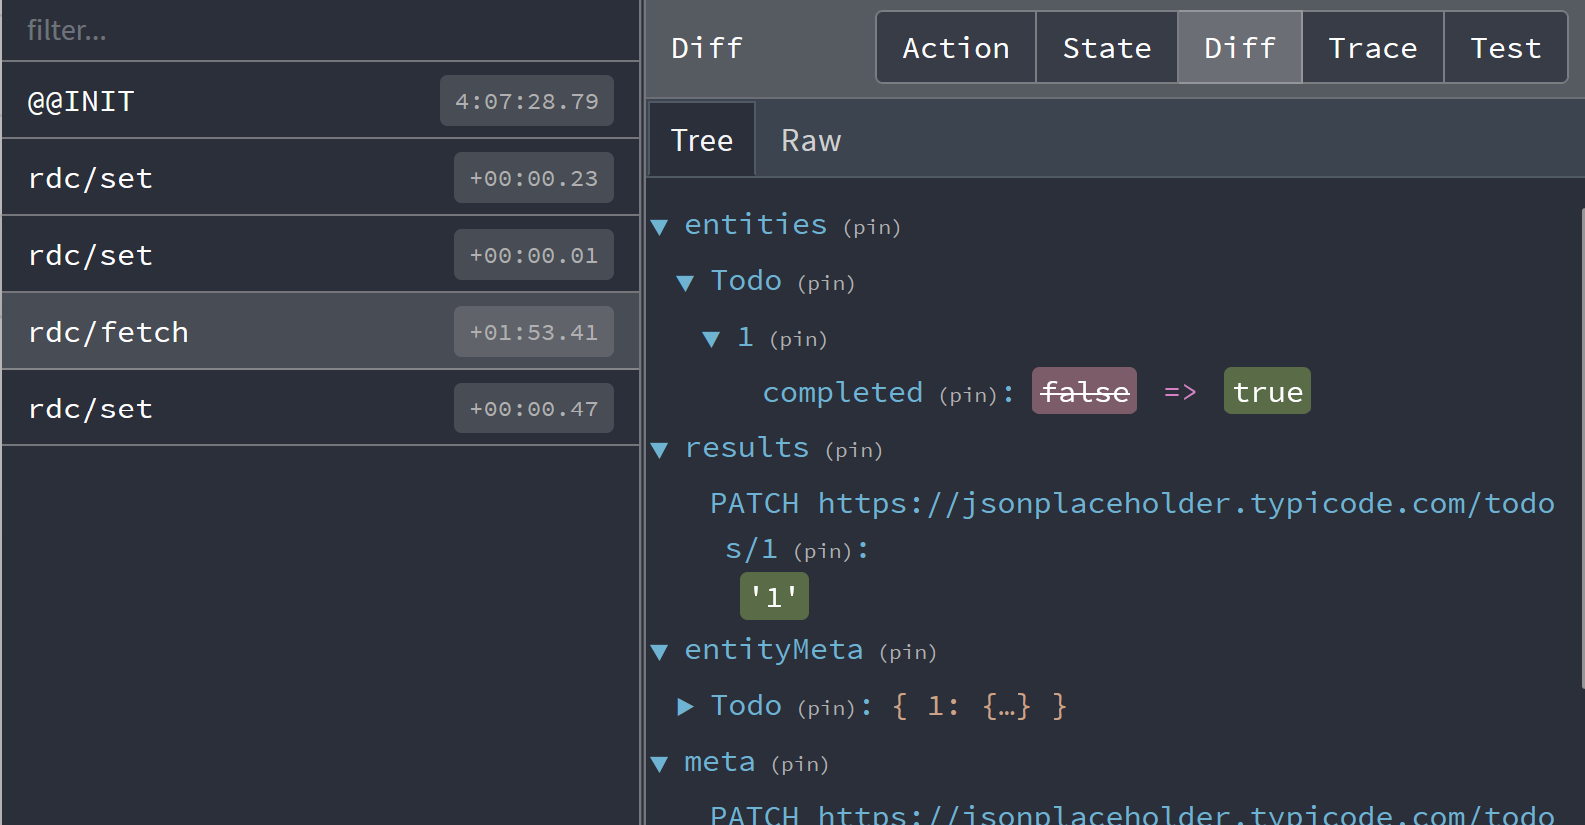
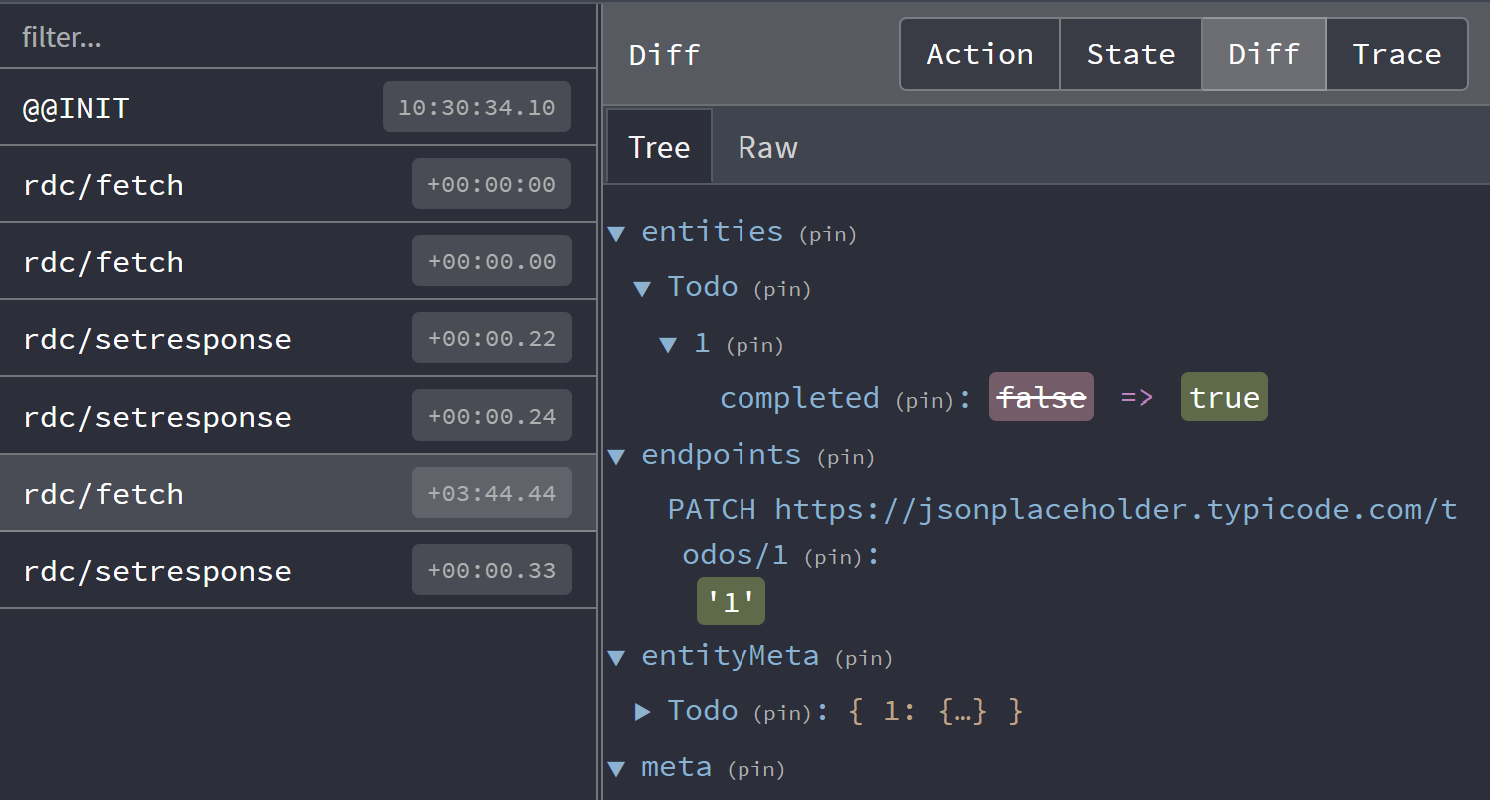
docs: Update debugging guide; move to getting-started

diff --git a/docs/core/guides/debugging.md b/docs/core/guides/debugging.md
@@ -32,107 +32,43 @@ in dev mode. If you have custom managers, you'll need to ensure DevToolsManager 
 
 ## Open dev tools
 
-<span style={{float:'right',marginLeft:'10px'}}>
-![redux-devtools button](/img/redux-devtools.png)
+<span style={{float:'right',marginLeft:'10px',width:'190px'}}>
+![redux-devtools browser button](/img/devtools-browser-button.png)
 </span>
 
 After installing and running your site, a new icon should appear in your location bar
 
 Clicking that will open the inspector, which allows you to observe dispatched actions,
-their effect on the cache state as well as current cache state.
+their effect on the store's state as well as current store state.
 
 ![browser-devtools](/img/devtool-action.png 'Reactive Data Client devtools')
 
 The [Controller](../api/Controller.md) dispatches actions, making that page useful for understanding
-what actions you see. Here we observe the most common actions of [fetch](../api/Controller.md#fetch)
-and [set](../api/Controller.md#setResponse).
+what actions you see. Here we observe common actions of [fetch](../api/Controller.md#fetch)
+and [setResponse](../api/Controller.md#setResponse).
 
 :::note
 
-By default the devtool integration will filter [fetch](../api/Controller.md#fetch) actions initiated
-by hooks to reduce spam. This can be changed with [skipLogging](../api/DevToolsManager.md#skiplogging) option.
+By default the devtool integration will filter duplicate [fetch](../api/Controller.md#fetch) actions.
+This can be changed with [skipLogging](../api/DevToolsManager.md#skiplogging) option.
 
 :::
 
 ## State Inspection
 
-If [schema](/rest/api/schema)s are used, API responses are split into two pieces - entities, and results. This
-is known as [normalization](../concepts/normalization.md), which ensures consistency
-and alows allows for automatic as well as novel performances optimizations, especially
-key if the data ever changes or is repeated.
-
-<Tabs
-defaultValue="State"
-values={[
-{ label: 'State', value: 'State' },
-{ label: 'Response', value: 'Response' },
-{ label: 'Endpoint', value: 'Endpoint' },
-{ label: 'Entity', value: 'Entity' },
-{ label: 'React', value: 'React' },
-]}>
-<TabItem value="State">
-
-![Entities cache](/img/entities.png 'Entities cache')
-
-</TabItem>
-<TabItem value="Response">
-
-```json
-[
-  { "id": 1, "title": "this is an entity" },
-  { "id": 2, "title": "this is the second entity" }
-]
-```
-
-</TabItem>
-<TabItem value="Endpoint">
-
-```typescript
-const getPresentations = new Endpoint(
-  () => fetch(`/presentations`).then(res => res.json()),
-  { schema: new schema.Collection([Presentation]) },
-);
-```
-
-</TabItem>
-<TabItem value="Entity">
-
-```typescript
-class Presentation extends Entity {
-  id = '';
-  title = '';
-
-  pk() {
-    return this.id;
-  }
-  static key = 'presentation';
-}
-```
-
-</TabItem>
-<TabItem value="React">
-
-```tsx
-export function PresentationsPage() {
-  const presentation = useSuspense(getPresentations);
-  return presentation.map(presentation => (
-    <div key={presentation.pk()}>{presentation.title}</div>
-  ));
-}
-```
-
-</TabItem>
-</Tabs>
-
-Once [normalized](../concepts/normalization.md), these [entities](/rest/api/Entity) and results are merged with the larger cache. Click on the 'state'
-tab in devtools to see the entire state. This can be useful to determine exactly where data is. There is
-also a 'meta' section of the cache for information like when the request took place (useful for [TTL](../concepts/expiry-policy.md)).
+Whens [schema](/rest/api/schema)s are used, responses are [normalized](../concepts/normalization.md) into `entities`
+and `endpoints` tables. This enables automatic performance advantages over simpler key-value fetch caches; especially
+beneficial with dynamic (changing) data. This also eliminates data-inconsistency bugs.
 
 ![Dev tools state inspector](/img/devtool-state.png 'Reactive Data Client devtools state inspector')
 
+Click on the **'state'**
+tab in devtools to see the store's entire state. This can be useful to determine exactly where data is. There is
+also a 'meta' section of the cache for information like when the request took place (useful for [TTL](../concepts/expiry-policy.md)).
+
 ## State Diff
 
-For monitoring a particular fetch response, it might be more useful to see how the cache state updates.
+For monitoring a particular fetch response, it might be more useful to see how the store updates.
 Click on the 'Diff' tab to see what changed.
 
 ![Dev tools diff inspector](/img/devtool-diff.png 'Reactive Data Client devtools diff')
